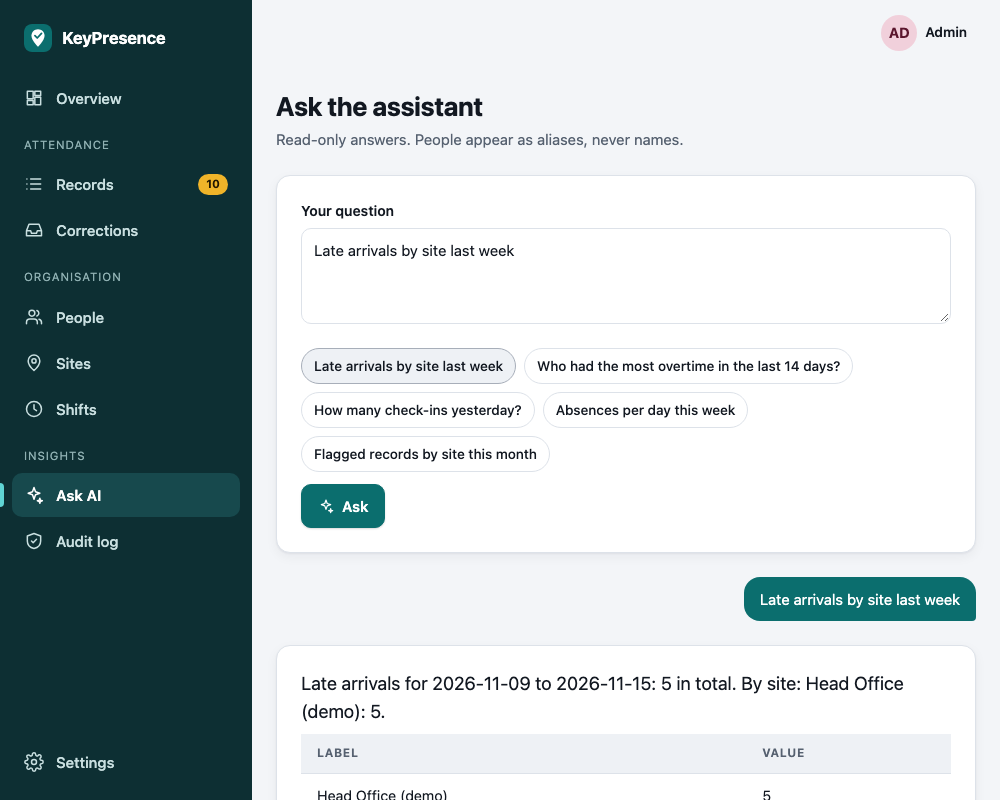
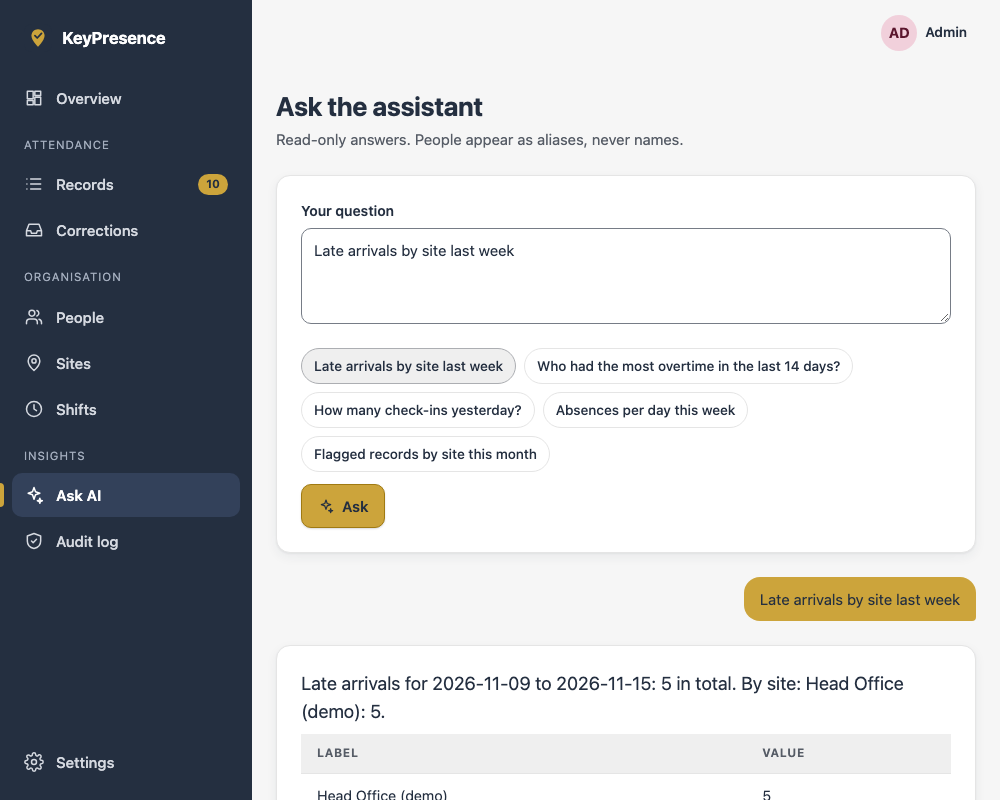
Apply Coolors palette (navy, gold, alabaster) with measured WCAG contrast
Gold is 2.35:1 on white, so it is a fill with navy ink or sits on navy;
bronze text token for light surfaces; separate input border token (3:1);
late bars get a stripe pattern; non-text contrast tests; docs/design-system.md.

diff --git a/src/web/theme.css b/src/web/theme.css
@@ -1,17 +1,23 @@
 /* Design tokens. Light is the default; dark follows the OS unless the user picks one (data-theme).
    Contrast of every text/background pair is verified by tests/contrast.test.ts (WCAG AA 4.5:1).
    Spacing scale: 4 8 12 16 24 32 48. Radius: 8 (small) 10 (controls) 14 (cards). */
+/* Palette (Coolors): graphite #363636, jet-black navy #242f40, golden-bronze #cca43b, alabaster #e5e5e5, white #ffffff.
+   Gold is 2.35:1 on white, so on light surfaces it is only ever a FILL with navy ink (5.75:1) or sits on navy; gold text
+   on light uses the derived bronze --accent-text. Status colours (red/green/amber) are outside the palette on purpose. */
 :root {
-  --bg: #f3f5f8;
+  --bg: #f6f6f6;
   --surface: #ffffff;
-  --surface-2: #eef1f5;
-  --text: #121821;
-  --muted: #566170;
-  --border: #dde2e9;
-  --accent: #0b6e6e;
-  --accent-ink: #ffffff;
-  --accent-soft: #dff1f0;
-  --accent-soft-ink: #064848;
+  --surface-2: #efefef;
+  --text: #242f40;
+  --muted: #565c66;
+  --border: #e5e5e5;
+  --input-border: #767c86;
+  --accent: #cca43b;
+  --accent-ink: #242f40;
+  --accent-edge: #a07a12;
+  --accent-text: #7a5c0a;
+  --accent-soft: #f6edd2;
+  --accent-soft-ink: #5c4300;
   --danger: #b42318;
   --danger-soft: #fde8e6;
   --danger-soft-ink: #8a1a11;
@@ -20,39 +26,45 @@
   --ok-soft: #dcf3e2;
   --ok-soft-ink: #14602b;
   --focus: #1a56db;
-  --side-bg: #0d2f33;
-  --side-ink: #c9dfe0;
-  --side-active: #17494d;
+  --side-bg: #242f40;
+  --side-ink: #d5d9e0;
+  --side-active: #33415a;
   --side-active-ink: #ffffff;
-  --side-muted: #8fb0b2;
-  --hero-from: #0b6e6e;
-  --hero-to: #0d4f57;
+  --side-muted: #a3adbd;
+  --hero-from: #2d3a4f;
+  --hero-to: #1b2433;
   --hero-ink: #ffffff;
-  --toast-bg: #14202b;
+  --toast-bg: #242f40;
   --toast-ink: #ffffff;
+  --toast-ok: #3ecf8e;
+  --toast-bad: #ff6b61;
+  --bar: #242f40;
+  --bar-late: #a07a12;
   --radius: 14px;
-  --shadow: 0 1px 2px rgb(16 24 40 / 0.05), 0 4px 12px rgb(16 24 40 / 0.05);
-  --shadow-lg: 0 12px 32px rgb(16 24 40 / 0.18);
+  --shadow: 0 1px 2px rgb(36 47 64 / 0.06), 0 4px 12px rgb(36 47 64 / 0.06);
+  --shadow-lg: 0 12px 32px rgb(36 47 64 / 0.22);
   color-scheme: light;
 }
 @media (prefers-color-scheme: dark) {
   :root:not([data-theme='light']) {
-    --bg: #0c1015; --surface: #151a21; --surface-2: #1c232c; --text: #e6eaf0; --muted: #9eaab9; --border: #2a323c;
-    --accent: #4fc3c3; --accent-ink: #04201f; --accent-soft: #123a3a; --accent-soft-ink: #aeeaea;
+    --bg: #171e2a; --surface: #1d2635; --surface-2: #2b3950; --text: #e5e5e5; --muted: #aab3c1; --border: #3a4960; --input-border: #7f8ca3;
+    --accent: #cca43b; --accent-ink: #242f40; --accent-edge: #cca43b; --accent-text: #cca43b; --accent-soft: #3a3322; --accent-soft-ink: #f0d98a;
     --danger: #ff8a80; --danger-soft: #3d1815; --danger-soft-ink: #ffc2bc;
     --warn-soft: #3a2c0b; --warn-soft-ink: #f3d58a; --ok-soft: #12321c; --ok-soft-ink: #a5e6b4; --focus: #7aa7ff;
-    --side-bg: #0a1b1e; --side-ink: #b6cfd1; --side-active: #14393d; --side-active-ink: #ffffff; --side-muted: #7fa0a3;
-    --hero-from: #115a5e; --hero-to: #0b3a42; --hero-ink: #ffffff; --toast-bg: #e6eaf0; --toast-ink: #101820;
+    --side-bg: #141a24; --side-ink: #c5cbd6; --side-active: #242f40; --side-active-ink: #ffffff; --side-muted: #8f9aac;
+    --hero-from: #2d3a4f; --hero-to: #1b2433; --hero-ink: #ffffff; --toast-bg: #e5e5e5; --toast-ink: #242f40; --toast-ok: #14602b; --toast-bad: #b42318;
+    --bar: #9fb0cc; --bar-late: #cca43b;
     --shadow: none; --shadow-lg: 0 12px 32px rgb(0 0 0 / 0.5); color-scheme: dark;
   }
 }
 :root[data-theme='dark'] {
-  --bg: #0c1015; --surface: #151a21; --surface-2: #1c232c; --text: #e6eaf0; --muted: #9eaab9; --border: #2a323c;
-  --accent: #4fc3c3; --accent-ink: #04201f; --accent-soft: #123a3a; --accent-soft-ink: #aeeaea;
+  --bg: #171e2a; --surface: #1d2635; --surface-2: #2b3950; --text: #e5e5e5; --muted: #aab3c1; --border: #3a4960; --input-border: #7f8ca3;
+  --accent: #cca43b; --accent-ink: #242f40; --accent-edge: #cca43b; --accent-text: #cca43b; --accent-soft: #3a3322; --accent-soft-ink: #f0d98a;
   --danger: #ff8a80; --danger-soft: #3d1815; --danger-soft-ink: #ffc2bc;
   --warn-soft: #3a2c0b; --warn-soft-ink: #f3d58a; --ok-soft: #12321c; --ok-soft-ink: #a5e6b4; --focus: #7aa7ff;
-  --side-bg: #0a1b1e; --side-ink: #b6cfd1; --side-active: #14393d; --side-active-ink: #ffffff; --side-muted: #7fa0a3;
-  --hero-from: #115a5e; --hero-to: #0b3a42; --hero-ink: #ffffff; --toast-bg: #e6eaf0; --toast-ink: #101820;
+  --side-bg: #141a24; --side-ink: #c5cbd6; --side-active: #242f40; --side-active-ink: #ffffff; --side-muted: #8f9aac;
+  --hero-from: #2d3a4f; --hero-to: #1b2433; --hero-ink: #ffffff; --toast-bg: #e5e5e5; --toast-ink: #242f40; --toast-ok: #14602b; --toast-bad: #b42318;
+  --bar: #9fb0cc; --bar-late: #cca43b;
   --shadow: none; --shadow-lg: 0 12px 32px rgb(0 0 0 / 0.5); color-scheme: dark;
 }
 
@@ -62,7 +74,7 @@ body { margin: 0; background: var(--bg); color: var(--text); font: 15px/1.6 syst
 h1, h2, h3 { line-height: 1.25; margin: 0; letter-spacing: -0.01em; }
 h1 { font-size: 1.65rem; font-weight: 700; } h2 { font-size: 1.1rem; font-weight: 650; } h3 { font-size: 1rem; font-weight: 650; }
 p { margin: 0; }
-a { color: var(--accent); text-underline-offset: 3px; }
+a { color: var(--accent-text); text-underline-offset: 3px; }
 :focus-visible { outline: 3px solid var(--focus); outline-offset: 2px; border-radius: 6px; }
 .sr-only { position: absolute; width: 1px; height: 1px; overflow: hidden; clip: rect(0 0 0 0); white-space: nowrap; }
 .skip { position: absolute; left: -999px; top: 0; background: var(--surface); padding: 8px 16px; z-index: 100; }
@@ -94,8 +106,9 @@ a { color: var(--accent); text-underline-offset: 3px; }
 }
 .side-link:hover { background: rgb(255 255 255 / 0.07); color: #fff; }
 .side-link[aria-current='page'] { background: var(--side-active); color: var(--side-active-ink); font-weight: 600; }
-.side-link[aria-current='page']::before { content: ''; position: absolute; left: -12px; top: 10px; bottom: 10px; width: 4px; border-radius: 0 4px 4px 0; background: #5fd4d4; }
-.side-link .count { margin-left: auto; background: #f0b429; color: #231800; font-size: 0.72rem; font-weight: 700; border-radius: 999px; padding: 1px 8px; }
+.side-link[aria-current='page']::before { content: ''; position: absolute; left: -12px; top: 10px; bottom: 10px; width: 4px; border-radius: 0 4px 4px 0; background: var(--accent); }
+.sidebar :focus-visible { outline-color: var(--accent); }
+.side-link .count { margin-left: auto; background: var(--accent); color: var(--accent-ink); font-size: 0.72rem; font-weight: 700; border-radius: 999px; padding: 1px 8px; }
 .side-spacer { flex: 1; min-height: 16px; }
 .brand { font-weight: 700; letter-spacing: -0.01em; text-decoration: none; color: var(--text); display: flex; align-items: center; gap: 10px; font-size: 1.05rem; }
 .brand img { width: 28px; height: 28px; border-radius: 8px; }
@@ -128,8 +141,8 @@ a { color: var(--accent); text-underline-offset: 3px; }
   }
 }
 .tabbar a { display: grid; justify-items: center; gap: 2px; padding: 8px 4px; min-height: 60px; text-decoration: none; color: var(--muted); font-size: 0.75rem; font-weight: 500; position: relative; align-content: center; }
-.tabbar a[aria-current='page'] { color: var(--accent); font-weight: 700; }
-.tabbar a[aria-current='page']::before { content: ''; position: absolute; top: 0; left: 28%; right: 28%; height: 3px; border-radius: 0 0 3px 3px; background: var(--accent); }
+.tabbar a[aria-current='page'] { color: var(--accent-text); font-weight: 700; }
+.tabbar a[aria-current='page']::before { content: ''; position: absolute; top: 0; left: 28%; right: 28%; height: 3px; border-radius: 0 0 3px 3px; background: var(--accent-edge); }
 .count-dot { position: absolute; top: 6px; left: calc(50% + 8px); background: var(--danger); color: var(--surface); font-size: 0.68rem; font-weight: 700; border-radius: 999px; padding: 0 6px; min-width: 18px; text-align: center; }
 .employee-nav { display: flex; gap: 4px; margin-left: 16px; }
 .employee-nav a { padding: 8px 14px; border-radius: 10px; text-decoration: none; color: var(--muted); font-weight: 500; display: inline-flex; align-items: center; gap: 8px; min-height: 40px; }
@@ -165,7 +178,7 @@ a { color: var(--accent); text-underline-offset: 3px; }
 .card.flush .card-head { padding: 16px 24px; margin: 0; border-bottom: 1px solid var(--border); }
 .stats { display: grid; gap: 16px; grid-template-columns: repeat(auto-fit, minmax(190px, 1fr)); }
 .stat { background: var(--surface); border: 1px solid var(--border); border-radius: var(--radius); padding: 20px; box-shadow: var(--shadow); display: grid; gap: 2px; align-content: start; transition: box-shadow 0.12s; }
-.stat:hover { box-shadow: 0 6px 18px rgb(16 24 40 / 0.1); }
+.stat:hover { box-shadow: 0 6px 18px rgb(36 47 64 / 0.12); }
 .stat-icon { width: 40px; height: 40px; border-radius: 12px; display: grid; place-items: center; background: var(--accent-soft); color: var(--accent-soft-ink); margin-bottom: 12px; }
 .stat.ok .stat-icon { background: var(--ok-soft); color: var(--ok-soft-ink); }
 .stat.warn .stat-icon { background: var(--warn-soft); color: var(--warn-soft-ink); }
@@ -184,8 +197,8 @@ a { color: var(--accent); text-underline-offset: 3px; }
 .btn:hover:not(:disabled) { background: var(--surface-2); border-color: color-mix(in srgb, var(--border) 60%, var(--muted)); }
 .btn:active:not(:disabled) { transform: translateY(1px); }
 .btn:disabled { opacity: 0.55; cursor: not-allowed; }
-.btn.primary { background: var(--accent); border-color: var(--accent); color: var(--accent-ink); box-shadow: 0 1px 2px rgb(0 0 0 / 0.15); }
-.btn.primary:hover:not(:disabled) { background: var(--accent); filter: brightness(1.1); }
+.btn.primary { background: var(--accent); border-color: var(--accent-edge); color: var(--accent-ink); box-shadow: 0 1px 2px rgb(0 0 0 / 0.15); }
+.btn.primary:hover:not(:disabled) { background: var(--accent); filter: brightness(1.07); }
 .btn.danger { color: var(--danger); border-color: color-mix(in srgb, var(--danger) 55%, var(--border)); }
 .btn.danger:hover:not(:disabled) { background: var(--danger-soft); }
 .btn.big { min-height: 60px; font-size: 1.1rem; width: 100%; border-radius: 14px; }
@@ -193,11 +206,11 @@ a { color: var(--accent); text-underline-offset: 3px; }
 .field { display: grid; gap: 6px; }
 .field > label, .field > .label { font-weight: 600; font-size: 0.875rem; }
 .field .hint { color: var(--muted); font-size: 0.82rem; }
-input, select, textarea { font: inherit; color: var(--text); background: var(--surface); border: 1px solid var(--border); border-radius: 10px; padding: 9px 12px; min-height: 44px; width: 100%; transition: border-color 0.12s, box-shadow 0.12s; }
+input, select, textarea { font: inherit; color: var(--text); background: var(--surface); border: 1px solid var(--input-border); border-radius: 10px; padding: 9px 12px; min-height: 44px; width: 100%; transition: border-color 0.12s, box-shadow 0.12s; }
 input:hover, select:hover, textarea:hover { border-color: color-mix(in srgb, var(--border) 50%, var(--muted)); }
-input:focus, select:focus, textarea:focus { border-color: var(--accent); box-shadow: 0 0 0 3px color-mix(in srgb, var(--accent) 25%, transparent); outline: none; }
+input:focus, select:focus, textarea:focus { border-color: var(--accent-text); box-shadow: 0 0 0 3px color-mix(in srgb, var(--accent) 35%, transparent); outline: none; }
 input[aria-invalid='true'] { border-color: var(--danger); }
-input[type='checkbox'], input[type='radio'] { width: 1.15rem; min-height: 0; height: 1.15rem; accent-color: var(--accent); }
+input[type='checkbox'], input[type='radio'] { width: 1.15rem; min-height: 0; height: 1.15rem; accent-color: var(--accent-text); }
 textarea { min-height: 96px; resize: vertical; }
 .check { display: flex; gap: 8px; align-items: center; }
 .form-grid { align-items: start; display: grid; gap: 16px; grid-template-columns: repeat(auto-fit, minmax(220px, 1fr)); }
@@ -245,7 +258,7 @@ tr:last-child td { border-bottom: 0; }
 .toasts { position: fixed; z-index: 100; bottom: 24px; right: 24px; display: grid; gap: 8px; max-width: min(380px, calc(100vw - 32px)); }
 @media (max-width: 720px) { .toasts { left: 16px; right: 16px; bottom: calc(76px + env(safe-area-inset-bottom)); max-width: none; } }
 .toast { display: flex; align-items: center; gap: 12px; background: var(--toast-bg); color: var(--toast-ink); padding: 12px 8px 12px 16px; border-radius: 12px; box-shadow: var(--shadow-lg); animation: toast-in 0.2s ease; }
-.toast.ok svg:first-child { color: #3ecf8e; } .toast.bad svg:first-child { color: #ff6b61; }
+.toast.ok svg:first-child { color: var(--toast-ok); } .toast.bad svg:first-child { color: var(--toast-bad); }
 .toast span { flex: 1; }
 .toast-x { border: 0; background: none; color: inherit; opacity: 0.7; cursor: pointer; width: 32px; height: 32px; border-radius: 8px; display: grid; place-items: center; }
 .toast-x:hover { opacity: 1; background: rgb(128 128 128 / 0.2); }
@@ -257,7 +270,7 @@ dialog[open] { animation: toast-in 0.18s ease; }
 dialog form { display: grid; gap: 20px; }
 .qr-box { background: #fff; padding: 16px; border-radius: 16px; display: inline-block; line-height: 0; border: 1px solid var(--border); }
 .qr-box svg { width: min(72vw, 320px); height: auto; }
-.spinner { width: 1.1rem; height: 1.1rem; border: 3px solid var(--border); border-top-color: var(--accent); border-radius: 50%; animation: spin 0.8s linear infinite; display: inline-block; }
+.spinner { width: 1.1rem; height: 1.1rem; border: 3px solid var(--border); border-top-color: var(--accent-text); border-radius: 50%; animation: spin 0.8s linear infinite; display: inline-block; }
 .btn.primary .spinner { border-color: rgb(255 255 255 / 0.4); border-top-color: currentColor; }
 @keyframes spin { to { transform: rotate(360deg); } }
 
@@ -268,7 +281,7 @@ dialog form { display: grid; gap: 20px; }
 .hero .status { display: inline-flex; align-items: center; gap: 8px; background: rgb(255 255 255 / 0.16); padding: 6px 14px; border-radius: 999px; font-weight: 600; font-size: 0.9rem; width: fit-content; }
 .hero .status .dot { width: 9px; height: 9px; border-radius: 50%; background: #b8c8c8; }
 .hero .status.in .dot { background: #5ff0a0; box-shadow: 0 0 0 4px rgb(95 240 160 / 0.25); }
-.hero .btn.primary { background: #fff; color: #0a4a4f; border-color: #fff; box-shadow: 0 6px 18px rgb(0 0 0 / 0.2); }
+.hero .btn.primary { border-color: var(--accent); box-shadow: 0 6px 18px rgb(0 0 0 / 0.2); }
 .hero .btn:not(.primary) { background: rgb(255 255 255 / 0.14); color: #fff; border-color: rgb(255 255 255 / 0.4); }
 .hero .btn:not(.primary):hover:not(:disabled) { background: rgb(255 255 255 / 0.24); }
 .timeline { margin: 0; padding: 0; }
@@ -288,8 +301,8 @@ dialog form { display: grid; gap: 20px; }
 
 /* ---------- Charts ---------- */
 .bars { display: flex; align-items: flex-end; gap: 6px; height: 140px; }
-.bars span { flex: 1; background: var(--accent); border-radius: 4px 4px 0 0; min-height: 3px; }
-.bars span.late { background: #e0a526; }
+.bars span { flex: 1; background: var(--bar); border-radius: 4px 4px 0 0; min-height: 3px; }
+.bars span.late { background: repeating-linear-gradient(135deg, var(--bar-late) 0 5px, color-mix(in srgb, var(--bar-late) 55%, var(--surface)) 5px 9px); } /* pattern, so lateness is not colour-only */
 
 @media (prefers-reduced-motion: reduce) { * { animation-duration: 0.01ms !important; transition-duration: 0.01ms !important; scroll-behavior: auto !important; } .spinner { animation: spin 3s linear infinite !important; } }
 @media print {

diff --git a/src/web/admin/admin.css b/src/web/admin/admin.css
@@ -33,13 +33,13 @@ details.info > p { margin-top: 4px; color: var(--muted); font-size: 0.85rem; max
 /* Chart */
 .legend { display: flex; gap: 16px; flex-wrap: wrap; font-size: 0.85rem; color: var(--muted); }
 .legend span { display: inline-flex; align-items: center; gap: 6px; }
-.legend i { width: 12px; height: 12px; border-radius: 3px; display: inline-block; background: var(--accent); }
-.legend i.late { background: var(--warn-soft-ink); }
+.legend i { width: 12px; height: 12px; border-radius: 3px; display: inline-block; background: var(--bar); }
+.legend i.late { background: repeating-linear-gradient(135deg, var(--bar-late) 0 3px, color-mix(in srgb, var(--bar-late) 55%, var(--surface)) 3px 6px); }
 .chart { display: grid; grid-auto-flow: column; grid-auto-columns: 1fr; gap: 12px; align-items: end; }
 .chart-col { display: grid; gap: 6px; justify-items: center; }
 .chart-bars { display: flex; align-items: flex-end; gap: 3px; height: 140px; width: 100%; justify-content: center; }
-.chart-bars span { width: min(22px, 40%); background: var(--accent); border-radius: 4px 4px 0 0; min-height: 3px; }
-.chart-bars span.late { background: var(--warn-soft-ink); }
+.chart-bars span { width: min(22px, 40%); background: var(--bar); border-radius: 4px 4px 0 0; min-height: 3px; }
+.chart-bars span.late { background: repeating-linear-gradient(135deg, var(--bar-late) 0 5px, color-mix(in srgb, var(--bar-late) 55%, var(--surface)) 5px 9px); }
 .chart-n { font-size: 0.8rem; font-variant-numeric: tabular-nums; color: var(--muted); }
 .chart-x { font-size: 0.75rem; color: var(--muted); }
 
@@ -60,7 +60,7 @@ details.info > p { margin-top: 4px; color: var(--muted); font-size: 0.85rem; max
 .ba-title { font-size: 0.85rem; font-weight: 650; margin-bottom: 6px; }
 
 /* Settings */
-.save-bar { position: sticky; bottom: 16px; z-index: 10; display: flex; justify-content: space-between; align-items: center; gap: 12px; flex-wrap: wrap; background: var(--surface); border: 1px solid var(--accent); border-radius: var(--radius); padding: 12px 16px; box-shadow: var(--shadow-lg); }
+.save-bar { position: sticky; bottom: 16px; z-index: 10; display: flex; justify-content: space-between; align-items: center; gap: 12px; flex-wrap: wrap; background: var(--surface); border: 2px solid var(--accent-edge); border-radius: var(--radius); padding: 12px 16px; box-shadow: var(--shadow-lg); }
 .section-h { display: flex; align-items: center; gap: 10px; }
 .section-h .stat-icon { margin: 0; width: 32px; height: 32px; border-radius: 10px; }
 

diff --git a/tests/contrast.test.ts b/tests/contrast.test.ts
@@ -22,11 +22,19 @@ export const ratio = (a: string, b: string) => { const [x, y] = [lum(a), lum(b)]
 const PAIRS: [string, string][] = [
   ['text', 'bg'], ['text', 'surface'], ['text', 'surface-2'],
   ['muted', 'bg'], ['muted', 'surface'], ['muted', 'surface-2'],
-  ['accent-ink', 'accent'], ['accent', 'surface'], ['accent', 'bg'],
+  ['accent-ink', 'accent'], ['accent-text', 'surface'], ['accent-text', 'bg'], ['accent-text', 'surface-2'], ['accent-text', 'accent-soft'], ['text', 'accent-soft'],
   ['accent-soft-ink', 'accent-soft'], ['danger-soft-ink', 'danger-soft'], ['warn-soft-ink', 'warn-soft'], ['ok-soft-ink', 'ok-soft'],
   ['danger', 'surface'], ['danger', 'bg'], ['surface', 'danger'],
   ['side-ink', 'side-bg'], ['side-muted', 'side-bg'], ['side-active-ink', 'side-active'], ['side-ink', 'side-active'],
   ['hero-ink', 'hero-from'], ['hero-ink', 'hero-to'], ['toast-ink', 'toast-bg'],
+];
+
+// Non-text UI (WCAG 1.4.11): borders of controls, focus rings, chart marks, status icons. Need 3:1.
+const NON_TEXT: [string, string][] = [
+  ['input-border', 'surface'], ['input-border', 'bg'], ['accent-edge', 'surface'], ['accent-edge', 'bg'],
+  ['focus', 'surface'], ['focus', 'bg'], ['focus', 'surface-2'],
+  ['bar', 'surface'], ['bar-late', 'surface'],
+  ['accent', 'side-bg'], ['accent', 'side-active'], ['toast-ok', 'toast-bg'], ['toast-bad', 'toast-bg'],
 ];
 
 describe.each([['light', light], ['dark (auto)', darkAuto], ['dark (manual)', darkManual]])('WCAG AA contrast, %s theme', (_n, theme) => {
@@ -35,6 +43,21 @@ describe.each([['light', light], ['dark (auto)', darkAuto], ['dark (manual)', da
     expect(theme[bg], `missing token ${bg}`).toBeTruthy();
     expect(ratio(theme[fg]!, theme[bg]!)).toBeGreaterThanOrEqual(4.5);
   });
+});
+
+describe.each([['light', light], ['dark (auto)', darkAuto], ['dark (manual)', darkManual]])('WCAG 1.4.11 non-text contrast, %s theme', (_n, theme) => {
+  it.each(NON_TEXT)('%s against %s is at least 3:1', (fg, bg) => {
+    expect(theme[fg], `missing token ${fg}`).toBeTruthy();
+    expect(theme[bg], `missing token ${bg}`).toBeTruthy();
+    expect(ratio(theme[fg]!, theme[bg]!)).toBeGreaterThanOrEqual(3);
+  });
+});
+
+it('uses the brand palette', () => {
+  expect(light['accent']).toBe('#cca43b');
+  expect(light['text']).toBe('#242f40');
+  expect(light['side-bg']).toBe('#242f40');
+  expect(light['border']).toBe('#e5e5e5');
 });
 
 it('the two dark definitions stay identical', () => {

diff --git a/src/web/employee/bits.tsx b/src/web/employee/bits.tsx
@@ -17,7 +17,7 @@ const CSS = `
 .chip{position:relative;display:flex;flex-direction:column;align-items:center;justify-content:center;gap:6px;min-height:76px;padding:10px 8px;border:1.5px solid var(--border);border-radius:12px;background:var(--surface);cursor:pointer;font-weight:600;font-size:.85rem;text-align:center;transition:background .12s,border-color .12s}
 .chip:hover{background:var(--surface-2)}
 .chips .chip input[type=radio]{position:absolute;inset:0;width:100%;height:100%;margin:0;opacity:0;cursor:pointer}
-.chip:has(input:checked){border-color:var(--accent);background:var(--accent-soft);color:var(--accent-soft-ink)}
+.chip:has(input:checked){border-color:var(--accent-edge);background:var(--accent-soft);color:var(--accent-soft-ink)}
 .chip:has(input:focus-visible){outline:3px solid var(--focus);outline-offset:2px}
 .chip:has(input:disabled){opacity:.55;cursor:not-allowed}
 .scan-frame{position:relative;aspect-ratio:1/1;border-radius:24px;overflow:hidden;background:var(--hero-to);display:grid;place-items:center;color:var(--hero-ink)}
@@ -48,10 +48,10 @@ const CSS = `
 .note.unread{background:var(--accent-soft);border-color:transparent}
 .note .tl-icon{background:var(--surface-2);color:var(--muted)}
 .note.unread .tl-icon{background:var(--accent);color:var(--accent-ink)}
-.unread-dot{width:9px;height:9px;border-radius:50%;background:var(--accent);flex:none}
+.unread-dot{width:9px;height:9px;border-radius:50%;background:var(--accent-edge);flex:none}
 .bullets{margin:0;padding:0;list-style:none;display:grid;gap:8px}
 .bullets li{display:flex;gap:10px;align-items:center}
-.bullets svg{color:var(--accent);flex:none}
+.bullets svg{color:var(--accent-text);flex:none}
 .plain-list{list-style:none;margin:0;padding:0;display:grid;gap:12px}
 `;
 export function EmployeeStyles() { return <style>{CSS}</style>; }

diff --git a/scripts/make-icons.ts b/scripts/make-icons.ts
@@ -7,7 +7,7 @@ const browser = await chromium.launch();
 for (const [name, size, pad] of [['icon-192', 192, 0], ['icon-512', 512, 0], ['icon-maskable-512', 512, 64]] as const) {
   const page = await browser.newPage({ viewport: { width: size, height: size } });
   const inner = size - pad * 2;
-  await page.setContent(`<body style="margin:0;background:#0b6e6e;display:grid;place-items:center;width:${size}px;height:${size}px"><div style="width:${inner}px;height:${inner}px">${svg.replace('<svg ', `<svg width="${inner}" height="${inner}" `)}</div></body>`);
+  await page.setContent(`<body style="margin:0;background:#242f40;display:grid;place-items:center;width:${size}px;height:${size}px"><div style="width:${inner}px;height:${inner}px">${svg.replace('<svg ', `<svg width="${inner}" height="${inner}" `)}</div></body>`);
   writeFileSync(`src/web/public/${name}.png`, await page.screenshot({ omitBackground: false }));
 }
 await browser.close();

diff --git a/e2e/demo-flow.spec.ts b/e2e/demo-flow.spec.ts
@@ -78,6 +78,6 @@ test('dark theme and mobile width render without horizontal scroll', async ({ br
   await page.goto('/login');
   await expect(page.getByRole('button', { name: 'Sign in' })).toBeVisible();
   expect(await page.evaluate(() => document.documentElement.scrollWidth <= window.innerWidth)).toBe(true);
-  expect(await page.evaluate(() => getComputedStyle(document.body).backgroundColor)).toBe('rgb(12, 16, 21)');
+  expect(await page.evaluate(() => getComputedStyle(document.body).backgroundColor)).toBe('rgb(23, 30, 42)');
   await ctx.close();
 });

diff --git a/src/web/index.html b/src/web/index.html
@@ -3,7 +3,7 @@
   <head>
     <meta charset="utf-8" />
     <meta name="viewport" content="width=device-width, initial-scale=1, viewport-fit=cover" />
-    <meta name="theme-color" content="#0b6e6e" />
+    <meta name="theme-color" content="#242f40" />
     <meta name="description" content="Location-verified check-in and check-out with a daily signed QR code per site." />
     <link rel="manifest" href="/manifest.webmanifest" />
     <link rel="icon" href="/icon.svg" type="image/svg+xml" />

diff --git a/docs/design-system.md b/docs/design-system.md
@@ -1,0 +1,33 @@
+# Colour palette and accessibility
+
+Brand palette (from Coolors): graphite `#363636`, jet-black navy `#242f40`, golden-bronze `#cca43b`, alabaster `#e5e5e5`, white `#ffffff`.
+Tokens live in `src/web/theme.css`; every pair below is asserted by `tests/contrast.test.ts` (WCAG 2.2 formula, run for light, dark-auto and dark-manual).
+
+## Measured ratios of the raw palette
+
+| Pair | Ratio | Verdict |
+| --- | --- | --- |
+| navy on white / alabaster | 13.5 / 10.7 | AAA text |
+| graphite on white / alabaster | 12.1 / 9.6 | AAA text |
+| alabaster or white on navy | 10.7 / 13.5 | AAA text |
+| gold on navy / graphite | 5.75 / 5.14 | AA text |
+| **gold on white / alabaster** | **2.35 / 1.86** | **fails text (4.5) and UI (3)** |
+
+The finding that shapes the design: gold cannot be text or a thin line on a light surface.
+
+## How the palette is applied
+
+- **Navy** is body text (light), sidebar, hero, toasts and the dark-theme surface family (`#171e2a`, `#1d2635`, `#2b3950` are derived navy shades).
+- **Gold** is a *fill* with navy text (primary button 5.75:1, count badge, active marker on navy, hero button) and the accent in dark mode.
+- **Bronze `#7a5c0a`** (derived, 6.24:1 on white) is the gold stand-in for text on light: links, active tab, focus border. In dark mode that token is gold itself.
+- **Alabaster** is the border colour and basis for surface tints. It is too faint for control borders (1.28:1 on white), so inputs use a separate `--input-border` that reaches 3:1.
+- Status colours (red, green, amber) are deliberately outside the palette: error and success meaning should not depend on brand hue.
+
+## Checks (all in `tests/contrast.test.ts`)
+
+- 26 text/background pairs at ≥ 4.5:1 per theme (body, muted, link/bronze, soft badges, sidebar, hero, toast, button).
+- 14 non-text pairs at ≥ 3:1 per theme (WCAG 1.4.11): input borders, focus ring, button edge, chart bars, gold marker on navy, toast icons.
+- Late-arrival bars use a diagonal stripe as well as colour, because the dark-theme gold and the bar colour are nearly equal in luminance (1.07:1) so colour alone would not distinguish them.
+- axe-core scans 13 pages in light and dark (`npm run test:e2e`): no serious or critical violations.
+
+Not verified: colour-blindness simulation, forced-colors/high-contrast mode, and real-device rendering [UNVERIFIED].

diff --git a/README.md b/README.md
@@ -70,10 +70,10 @@ All numbers are from this repository on one MacBook (macOS 27.2, Node 26.13, Pos
 
 | Claim | How to reproduce | Result |
 | --- | --- | --- |
-| Test count | `npm test` | **220 passed** in 11 files (also 220 passed on real PostgreSQL 17 with `npm run test:pg`) |
+| Test count | `npm test` | **269 passed** in 11 files (also 269 passed on real PostgreSQL 17 with `npm run test:pg`) |
 | End-to-end + accessibility | `npm run test:e2e` | **4 passed**: demo flow, dark/mobile layout, axe scan of 13 pages in light and dark with no serious or critical violations |
 | Guard mutation check | `bash scripts/mutation-check.sh` | **14 of 14** mutations caught |
-| Contrast | `tests/contrast.test.ts` | 23 text/background pairs at 4.5:1 or better in light, dark(auto) and dark(manual) |
+| Contrast | `tests/contrast.test.ts` | 26 text pairs at 4.5:1 and 14 non-text pairs at 3:1 in light, dark(auto) and dark(manual); palette notes in [`docs/design-system.md`](docs/design-system.md) |
 | API latency, check-in / check-out | `npx tsx scripts/bench.ts` | PGlite p50 1.2 / 1.4 ms, p95 1.6 / 1.8 ms; Postgres 17 p50 0.9 / 0.9 ms, p95 1.9 / 1.9 ms (100 cycles, in-process, no network) |
 | Summary over 15 days / AI question | same | p50 2.0 / 0.9 ms (PGlite), 1.1 / 0.7 ms (Postgres) over a 14-day, 8-person seed |
 | Web bundle (gzip) | `npm run build` | see `npm run build` output (admin pages are lazy-loaded chunks) |

diff --git a/docs/STATUS.md b/docs/STATUS.md
@@ -2,7 +2,7 @@
 
 ## Verified (commands in README "Measured")
 - `npm run typecheck`: clean.
-- `npm test`: 220 tests pass on PGlite. `npm run test:pg`: same suite passes on PostgreSQL 17.11.
+- `npm test`: 269 tests pass on PGlite. `npm run test:pg`: same suite passes on PostgreSQL 17.11.
 - `npm run test:e2e`: demo flow (admin creates site and geofence, shows QR; employee accepted inside the fence, rejected outside; check-out; admin sees records, summary, AI answer, CSV), dark/mobile layout, axe scan of 13 pages in light and dark (no serious/critical).
 - `bash scripts/mutation-check.sh`: 14/14 guard mutations caught.
 - Concurrency (one open record under 8 simultaneous check-ins) passes on real PostgreSQL.
